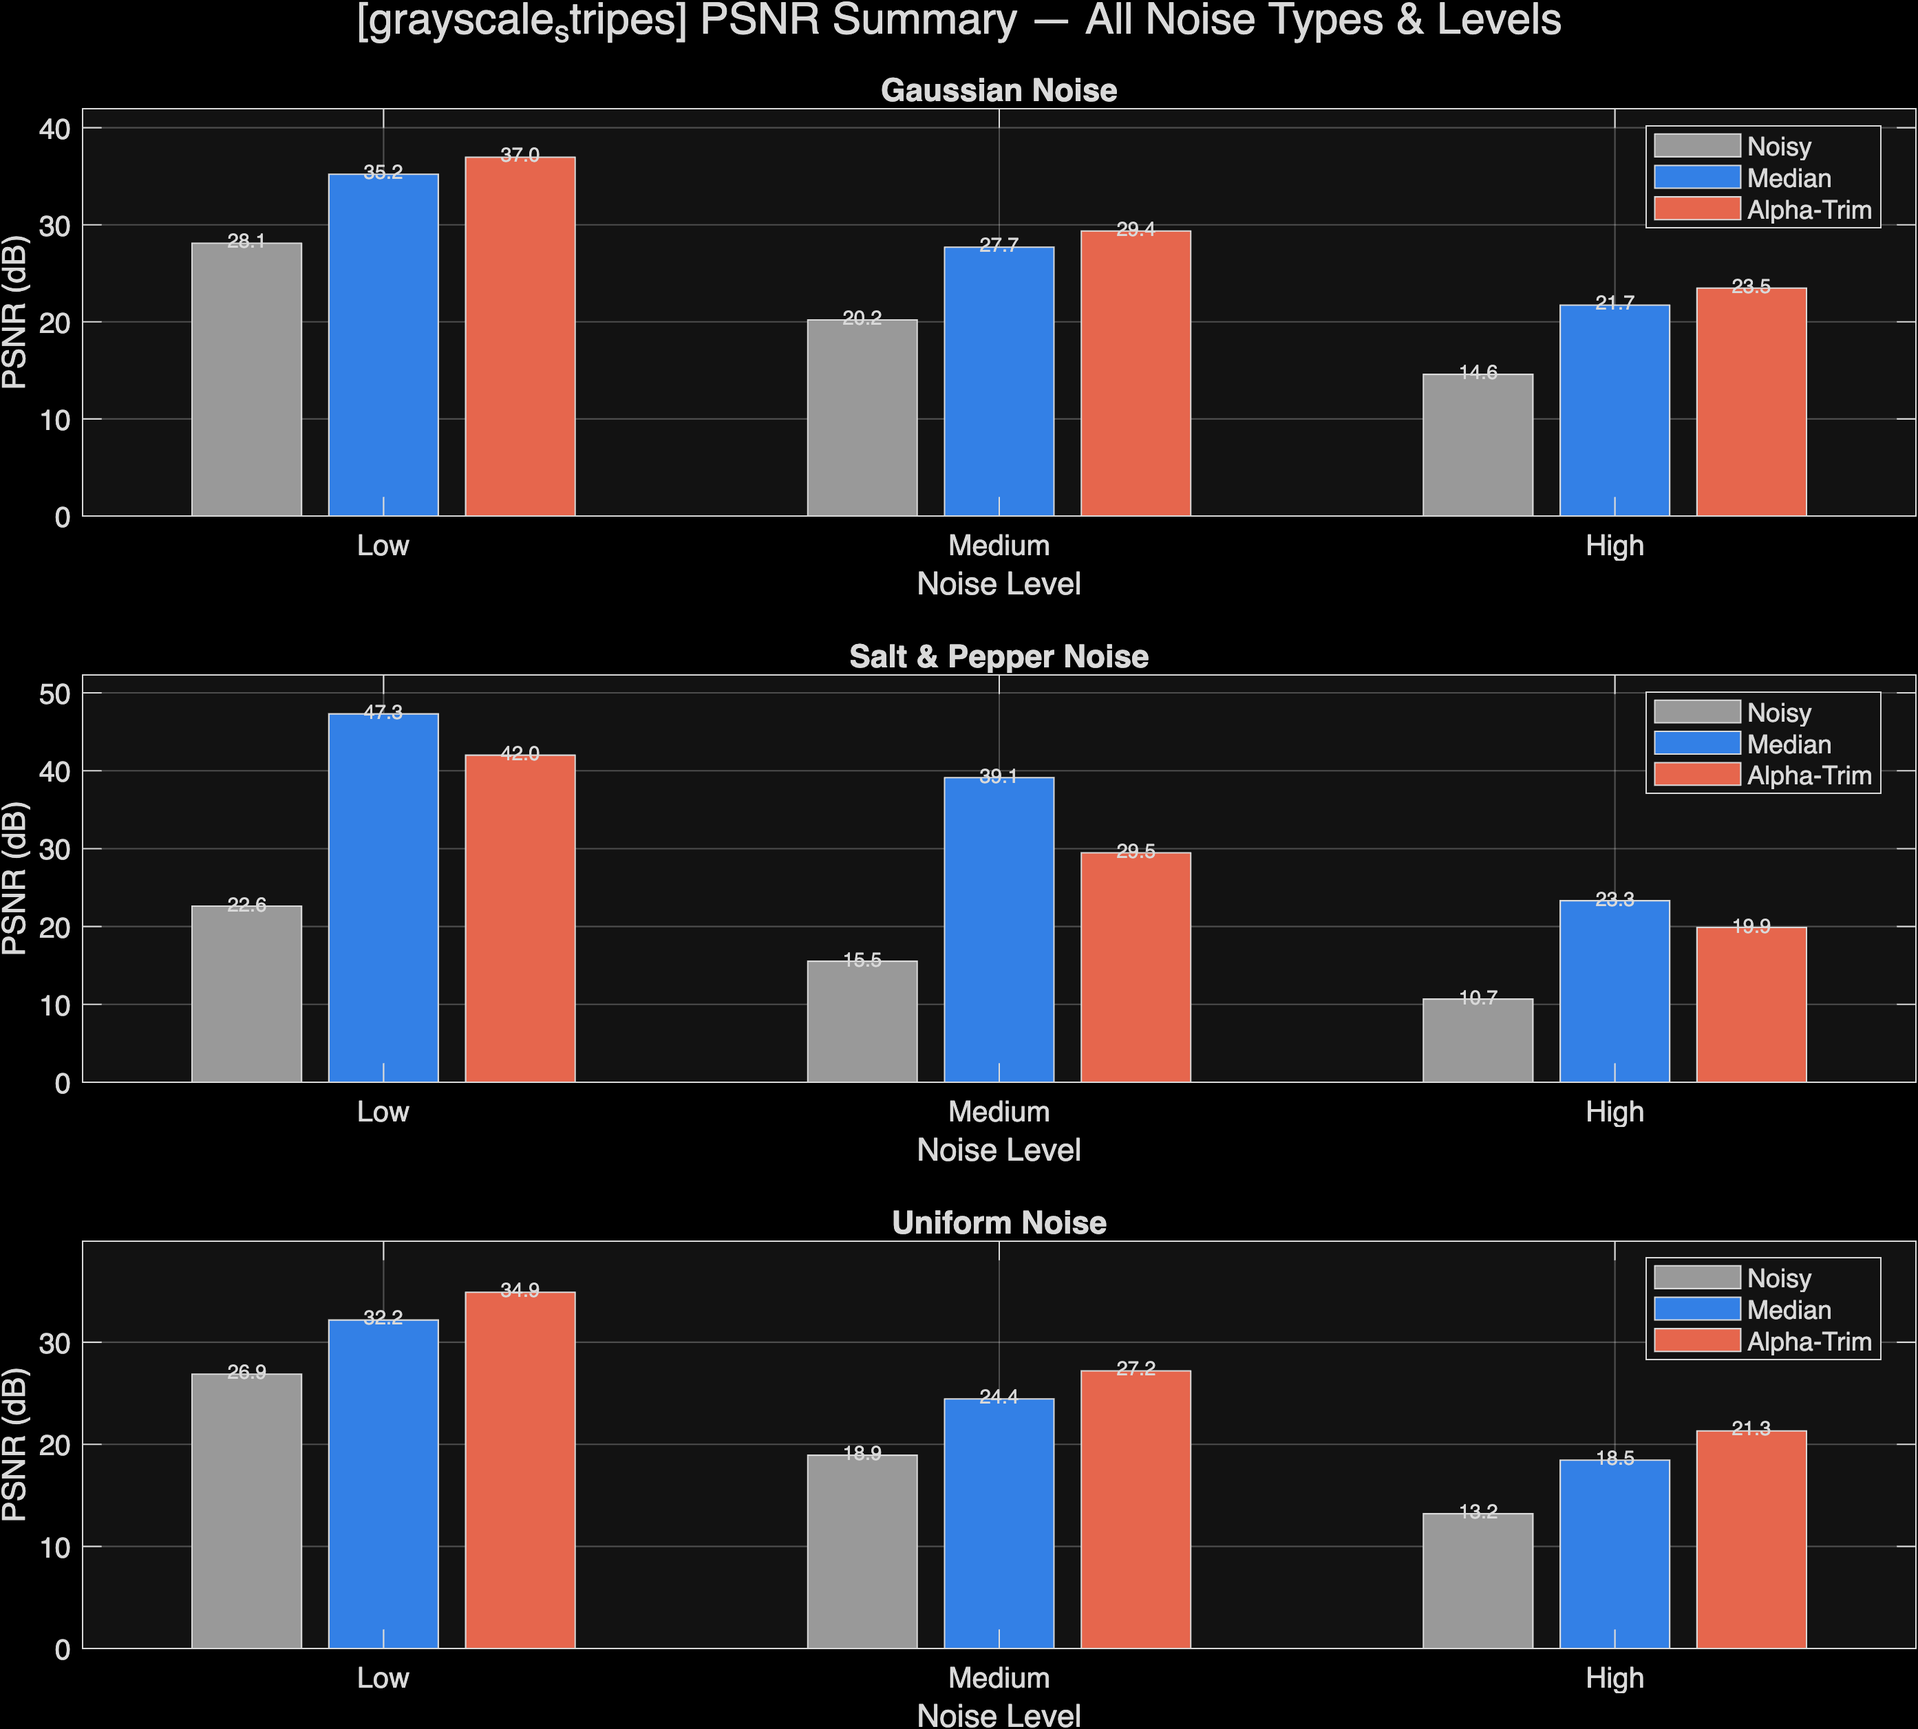
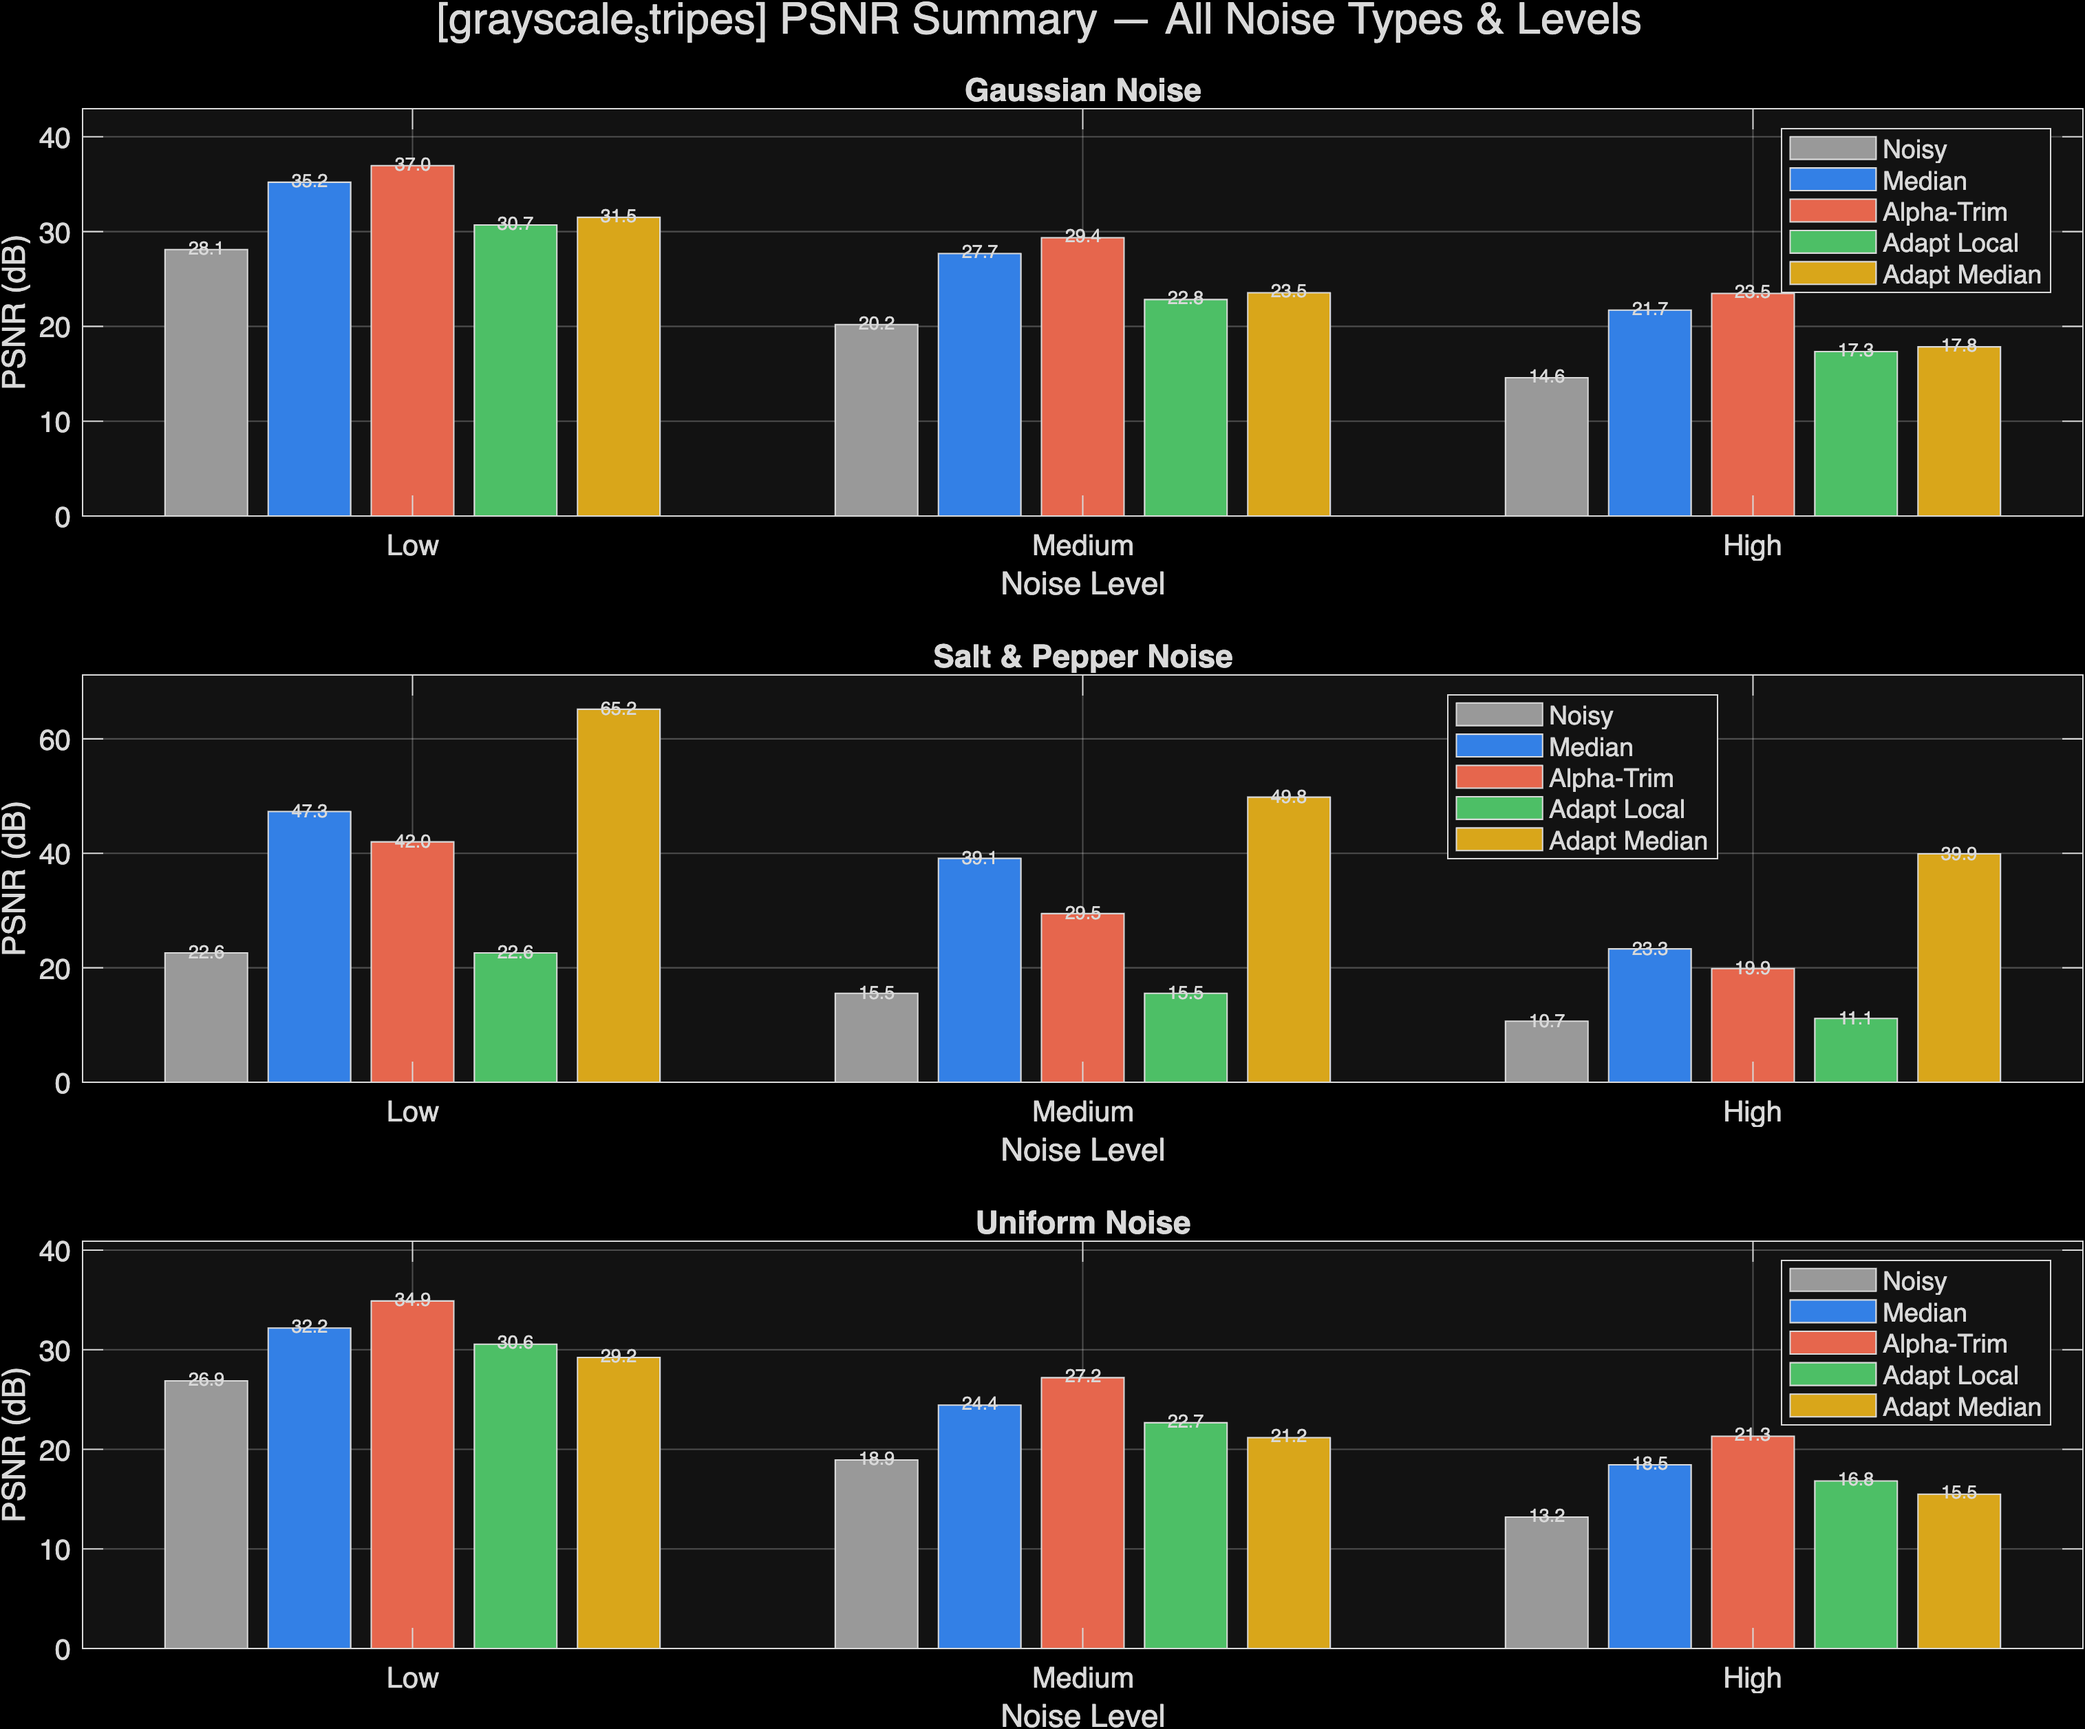
PSNR add Noisy | Median | Alpha-Trim | Adapt Local | Adapt Median

diff --git a/PSNR/PSNR.m b/PSNR/PSNR.m
@@ -1,15 +1,16 @@
 % PSNR Evaluation
 % For every image in Picture/, computes PSNR of noisy and restored images
-% against the clean original. Produces a console table and bar charts.
+% against the clean original. Five methods: Noisy / Median / Alpha-Trim /
+% Adaptive Local / Adaptive Median.
 %
 % Prerequisite: run ApplyNoise.m then Restore.m first.
 clear; close all; clc;
 
 % ── Paths ─────────────────────────────────────────────────────────────────
-psnr_root   = fileparts(mfilename('fullpath'));
-hw4_root    = fileparts(psnr_root);
-pic_dir     = fullfile(hw4_root, 'Picture');
-noisy_root  = fullfile(hw4_root, 'NoiseMatrix', 'ApplyNoise', 'result');
+psnr_root    = fileparts(mfilename('fullpath'));
+hw4_root     = fileparts(psnr_root);
+pic_dir      = fullfile(hw4_root, 'Picture');
+noisy_root   = fullfile(hw4_root, 'NoiseMatrix', 'ApplyNoise', 'result');
 restore_root = fullfile(hw4_root, 'Restore', 'result');
 
 % ── Scan Picture folder ───────────────────────────────────────────────────
@@ -31,9 +32,19 @@ levels(3) = struct('label','High',   'tag','high');
 noise_types  = {'gaussian', 'saltpepper', 'uniform'};
 noise_labels = {'Gaussian', 'Salt & Pepper', 'Uniform'};
 
-colors        = [0.6 0.6 0.6; 0.2 0.5 0.9; 0.9 0.4 0.3];
-method_labels = {'Noisy', 'Median', 'Alpha-Trim'};
-level_labels  = {'Low', 'Medium', 'High'};
+% method index: 1=Noisy 2=Median 3=AlphaTrim 4=AdaptLocal 5=AdaptMed
+method_labels = {'Noisy', 'Median', 'Alpha-Trim', 'Adapt Local', 'Adapt Median'};
+method_files  = {'', 'median_%s_%s.png', 'alphatrim_%s_%s.png', ...
+                 'adaptlocal_%s_%s.png', 'adaptmed_%s_%s.png'};
+n_methods = numel(method_labels);
+
+colors = [0.60 0.60 0.60   % Noisy       (gray)
+          0.20 0.50 0.90   % Median      (blue)
+          0.90 0.40 0.30   % Alpha-Trim  (red-orange)
+          0.30 0.75 0.40   % Adapt Local (green)
+          0.85 0.65 0.10]; % Adapt Med   (yellow)
+
+level_labels = {'Low', 'Medium', 'High'};
 
 % ── Process each image ───────────────────────────────────────────────────
 for fi = 1:numel(img_files)
@@ -48,30 +59,34 @@ for fi = 1:numel(img_files)
     out_dir     = fullfile(psnr_root, 'result', img_name);
     if ~exist(out_dir, 'dir'), mkdir(out_dir); end
 
-    % psnr_table(level, noise_type, method)  method: 1=Noisy 2=Median 3=AlphaTrim
-    psnr_table = zeros(3, 3, 3);
+    % psnr_table(level, noise_type, method)
+    psnr_table = zeros(3, 3, n_methods);
 
     fprintf('\n=== PSNR — %s ===\n', img_name);
-    fprintf('%-8s  %-13s  %-10s  %-10s  %-10s\n', ...
-        'Level','Noise type','Noisy','Median','Alpha-Trim');
-    fprintf('%s\n', repmat('-',1,58));
+    fprintf('%-8s  %-13s  %-9s  %-9s  %-9s  %-9s  %-9s\n', ...
+        'Level','Noise','Noisy','Median','AlphaTrim','AdaptLoc','AdaptMed');
+    fprintf('%s\n', repmat('-',1,76));
 
     for k = 1:3
         lv = levels(k);
         for t = 1:3
             ntype = noise_types{t};
 
-            noisy          = imread(fullfile(noisy_dir,   sprintf('%s_%s.png',          ntype, lv.tag)));
-            restored_med   = imread(fullfile(restore_dir, sprintf('median_%s_%s.png',   ntype, lv.tag)));
-            restored_alpha = imread(fullfile(restore_dir, sprintf('alphatrim_%s_%s.png',ntype, lv.tag)));
+            % Load all images (1=Noisy, 2–5=restored)
+            imgs = cell(1, n_methods);
+            imgs{1} = imread(fullfile(noisy_dir, sprintf('%s_%s.png', ntype, lv.tag)));
+            for m = 2:n_methods
+                imgs{m} = imread(fullfile(restore_dir, sprintf(method_files{m}, ntype, lv.tag)));
+            end
 
-            psnr_table(k,t,1) = psnr_fn(noisy,          orig);
-            psnr_table(k,t,2) = psnr_fn(restored_med,   orig);
-            psnr_table(k,t,3) = psnr_fn(restored_alpha, orig);
+            for m = 1:n_methods
+                psnr_table(k,t,m) = psnr_fn(imgs{m}, orig);
+            end
 
-            fprintf('%-8s  %-13s  %7.2f dB  %7.2f dB  %7.2f dB\n', ...
+            fprintf('%-8s  %-13s  %6.1fdB  %6.1fdB  %6.1fdB  %6.1fdB  %6.1fdB\n', ...
                 lv.label, noise_labels{t}, ...
-                psnr_table(k,t,1), psnr_table(k,t,2), psnr_table(k,t,3));
+                psnr_table(k,t,1), psnr_table(k,t,2), psnr_table(k,t,3), ...
+                psnr_table(k,t,4), psnr_table(k,t,5));
         end
         fprintf('\n');
     end
@@ -79,10 +94,10 @@ for fi = 1:numel(img_files)
     % ── Individual bar chart per noise type ──────────────────────────────
     for t = 1:3
         fig = figure('Name', sprintf('PSNR %s — %s', img_name, noise_labels{t}), ...
-                     'Position', [50 50 700 450]);
-        data = squeeze(psnr_table(:, t, :));   % 3×3
+                     'Position', [50 50 900 480]);
+        data = squeeze(psnr_table(:, t, :));   % 3 levels × 5 methods
         b = bar(data, 'grouped');
-        for m = 1:3, b(m).FaceColor = colors(m,:); end
+        for m = 1:n_methods, b(m).FaceColor = colors(m,:); end
         set(gca, 'XTickLabel', level_labels);
         xlabel('Noise Level'); ylabel('PSNR (dB)');
         legend(method_labels, 'Location','best');
@@ -93,21 +108,21 @@ for fi = 1:numel(img_files)
 
     % ── Summary figure: all noise types in one view ───────────────────────
     fig_sum = figure('Name', sprintf('PSNR Summary — %s', img_name), ...
-                     'Position', [50 50 1100 900]);
+                     'Position', [50 50 1200 900]);
 
     for t = 1:3
         subplot(3, 1, t);
-        data = squeeze(psnr_table(:, t, :));   % 3 levels × 3 methods
+        data = squeeze(psnr_table(:, t, :));   % 3 levels × 5 methods
         b = bar(data, 'grouped');
-        for m = 1:3, b(m).FaceColor = colors(m,:); end
+        for m = 1:n_methods, b(m).FaceColor = colors(m,:); end
 
-        % Annotate each bar with its PSNR value
-        for m = 1:3
+        % Value labels above each bar
+        for m = 1:n_methods
             for lv_idx = 1:3
                 val = data(lv_idx, m);
                 x   = b(m).XEndPoints(lv_idx);
                 text(x, val + 0.3, sprintf('%.1f', val), ...
-                    'HorizontalAlignment','center', 'FontSize', 7);
+                    'HorizontalAlignment','center', 'FontSize', 6.5);
             end
         end
 
@@ -115,7 +130,7 @@ for fi = 1:numel(img_files)
         xlabel('Noise Level'); ylabel('PSNR (dB)');
         legend(method_labels, 'Location','best');
         title(sprintf('%s Noise', noise_labels{t}));
-        grid on; ylim([0 max(data(:)) + 5]);
+        grid on; ylim([0, max(data(:)) + 6]);
     end
 
     sgtitle(sprintf('[%s] PSNR Summary — All Noise Types & Levels', img_name));
